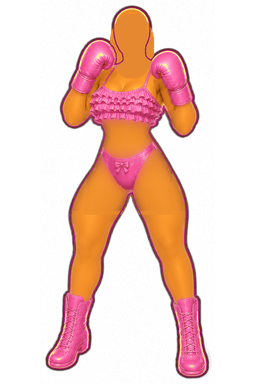
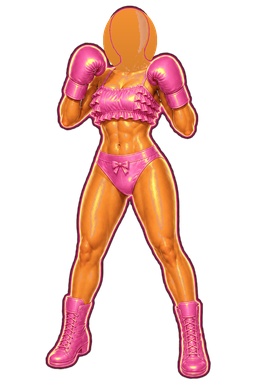
Revert KK body to original muscular tone and packing
Restore ripped Foxy-Thong physique (no soft hourglass warp), keep
logo-free kit and face-matched skin, and use body-12 face/feet metrics.

Changed region(s): [[0.1562, 0.0, 0.8438, 1.0]]

diff --git a/frontend/src/play/bodyStyles.ts b/frontend/src/play/bodyStyles.ts
@@ -168,9 +168,9 @@ export const BODY_STYLES: Record<BodyStyleId, BodyStyle> = {
     'KK',
     '/boxer/bodies/body-kk.png',
     '/boxer/bodies/body-kk-thumb.png',
-    // Soft hourglass pink kit; blank head matched to KK face skin.
-    [0.4268, 0.0592, 0.5898, 0.2188],
-    0.0306
+    // Same packing metrics as Foxy Thong (muscular base).
+    [0.4082, 0.0215, 0.6064, 0.179],
+    0.0664
   ),
 };
 
